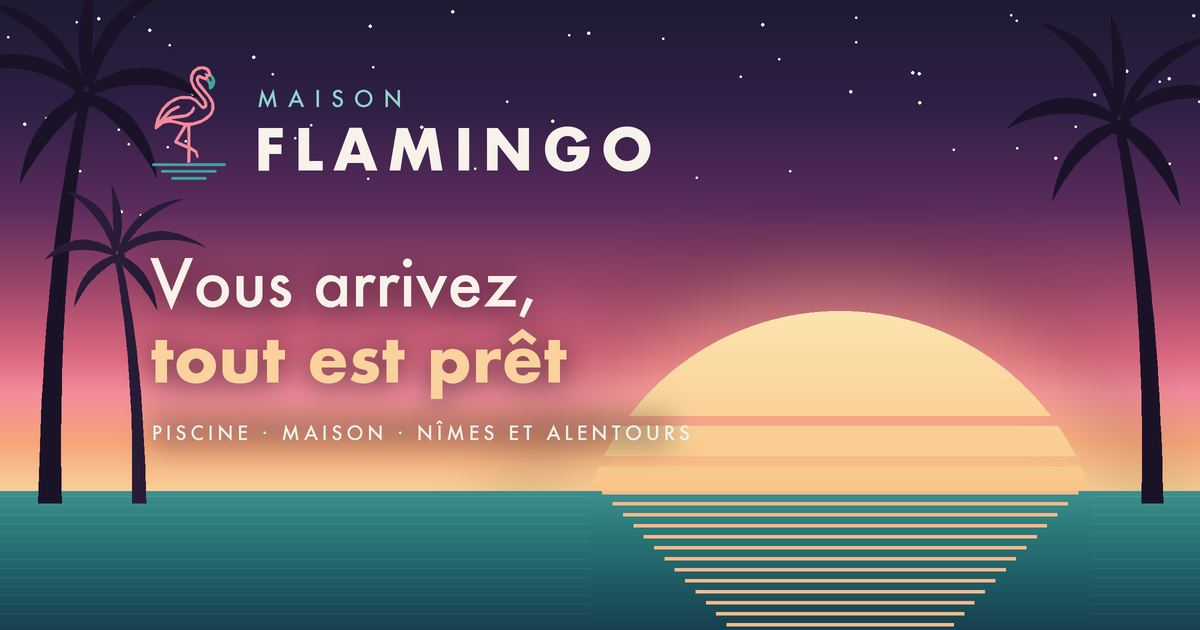
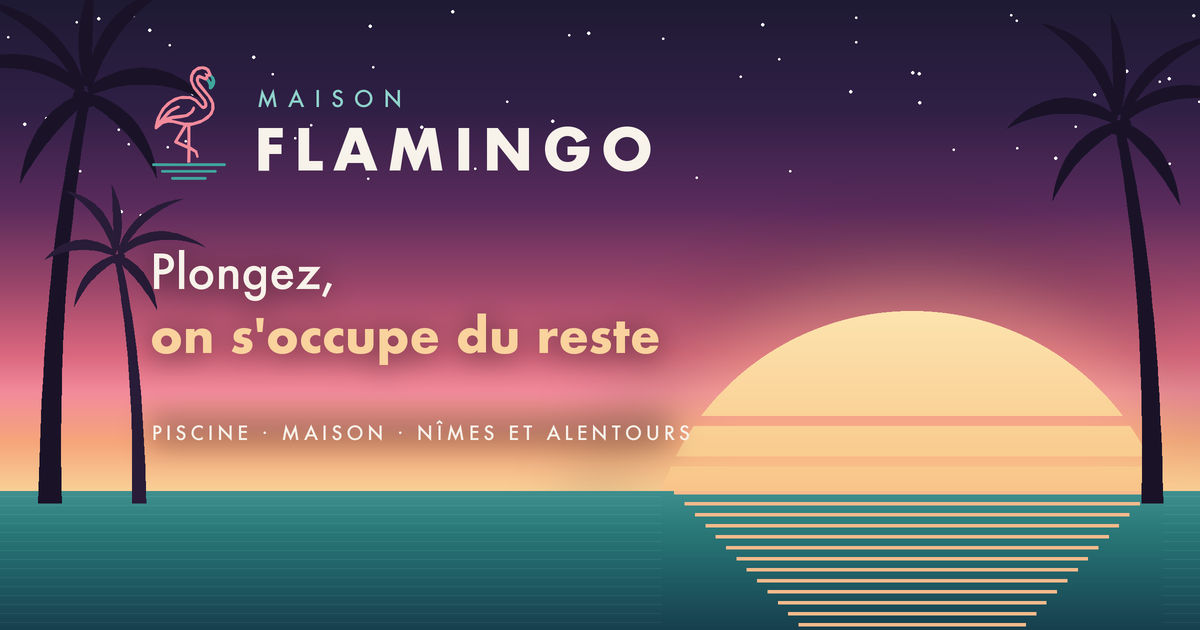
Signature Plongez, on s'occupe du reste, et image de partage refaite

Changed region(s): [[0.1233, 0.3921, 0.9558, 0.7238], [0.4933, 0.754, 0.6783, 0.9952], [0.8017, 0.754, 0.9558, 0.9952]]

diff --git a/index.html b/index.html
@@ -3,19 +3,19 @@
 <head>
 <meta charset="utf-8">
 <meta name="viewport" content="width=device-width, initial-scale=1">
-<title>Maison Flamingo · Vous arrivez, tout est prêt</title>
+<title>Maison Flamingo · Plongez, on s'occupe du reste</title>
 <meta name="description" content="Entretien de piscine chaque semaine et veille de maison fermée, autour de Nîmes. Le même technicien, le même jour, et un rapport photo après chaque passage. Ouverture au printemps 2027.">
 <meta name="theme-color" content="#2A1D3D">
-<meta property="og:title" content="Maison Flamingo · Vous arrivez, tout est prêt">
+<meta property="og:title" content="Maison Flamingo · Plongez, on s'occupe du reste">
 <meta property="og:description" content="Votre piscine et votre maison, tenues chaque semaine par le même technicien, autour de Nîmes. 25 places fondateurs pour le printemps 2027.">
 <meta property="og:locale" content="fr_FR">
 <meta property="og:type" content="website">
 <meta property="og:url" content="https://maisonflamingo.fr/">
 <meta property="og:site_name" content="Maison Flamingo">
-<meta property="og:image" content="https://maisonflamingo.fr/partage.png?v=1">
+<meta property="og:image" content="https://maisonflamingo.fr/partage.png?v=2">
 <meta property="og:image:width" content="1200">
 <meta property="og:image:height" content="630">
-<meta property="og:image:alt" content="Maison Flamingo, coucher de soleil sur la piscine : Vous arrivez, tout est prêt">
+<meta property="og:image:alt" content="Maison Flamingo, coucher de soleil sur la piscine : Plongez, on s'occupe du reste">
 <meta name="twitter:card" content="summary_large_image">
 <link rel="canonical" href="https://maisonflamingo.fr/">
 <link rel="icon" href="favicon.png?v=1" type="image/png">
@@ -23,7 +23,7 @@
 <link rel="preconnect" href="https://fonts.googleapis.com">
 <link rel="preconnect" href="https://fonts.gstatic.com" crossorigin>
 <link href="https://fonts.googleapis.com/css2?family=Josefin+Sans:wght@200;300;400;600;700&family=Jost:ital,wght@0,300;0,400;0,500;0,600;1,400&display=swap" rel="stylesheet">
-<link rel="stylesheet" href="style.css?v=20">
+<link rel="stylesheet" href="style.css?v=22">
 </head>
 <body>
 
@@ -80,7 +80,7 @@
     <div class="wrap hero-grille">
       <div class="hero-texte">
         <p class="surtitre surtitre-clair">Piscine · Maison · Nîmes et alentours</p>
-        <h1><span class="tenu">Vous arrivez,</span><br><strong class="tenu">tout est prêt</strong></h1>
+        <h1><span class="tenu">Plongez,</span><br><strong class="tenu">on s'occupe <br class="coupe">du reste</strong></h1>
         <p class="hero-sous">Votre piscine et votre maison, tenues chaque semaine par le même technicien, le même jour, toute l'année. Après chaque passage, un rapport photo sur votre téléphone.</p>
         <div class="hero-actions">
           <a href="#liste" class="btn btn-creme">Réserver ma place fondateur</a>

diff --git a/style.css b/style.css
@@ -99,7 +99,9 @@ section[id]{scroll-margin-top:84px}
 .hero-texte{display:flex;flex-direction:column;gap:26px;max-width:700px}
 /* La première ligne de la signature ne se coupe jamais : « plus » seul sur une ligne casse la phrase */
 .hero h1 .tenu{white-space:nowrap}
-.hero h1{font-size:clamp(40px,6vw,88px);line-height:.98;font-weight:200;text-shadow:0 2px 30px rgba(30,26,51,.35)}
+/* Sur téléphone seulement, la seconde ligne se coupe à l'endroit naturel : « on s'occupe / du reste » */
+.hero h1 .coupe{display:none}
+.hero h1{font-size:clamp(34px,4.4vw,63px);line-height:.98;font-weight:200;text-shadow:0 2px 30px rgba(30,26,51,.35)}
 .hero h1 strong{font-weight:600;display:inline-block;background:linear-gradient(90deg,#FCE3AE,#F6A57A 45%,#F28B9B);-webkit-background-clip:text;background-clip:text;color:transparent}
 .hero-sous{font-size:19.5px;line-height:1.6;color:rgba(247,242,234,.92);max-width:540px;text-shadow:0 1px 16px rgba(30,26,51,.5)}
 .hero-actions{display:flex;flex-wrap:wrap;gap:14px}
@@ -316,7 +318,8 @@ legend{font-size:14px;font-weight:500;margin-bottom:6px;padding:0}
   .palmier-g2{display:none}
   .palmier-d{height:38%;right:-60px}
   .hero .surtitre{display:none}
-  .hero h1{font-size:46px}
+  .hero h1{font-size:44px}
+  .hero h1 .coupe{display:inline}
   .hero-texte{gap:22px}
   .hero-sous{font-size:17.5px}
   .hero-actions .btn{width:100%}

diff --git a/mentions-legales.html b/mentions-legales.html
@@ -9,7 +9,7 @@
 <link rel="preconnect" href="https://fonts.googleapis.com">
 <link rel="preconnect" href="https://fonts.gstatic.com" crossorigin>
 <link href="https://fonts.googleapis.com/css2?family=Josefin+Sans:wght@200;300;400;600&family=Jost:wght@300;400;500&display=swap" rel="stylesheet">
-<link rel="stylesheet" href="style.css?v=20">
+<link rel="stylesheet" href="style.css?v=22">
 </head>
 <body class="page-legale">
 <div class="bande-sunset" aria-hidden="true"></div>
